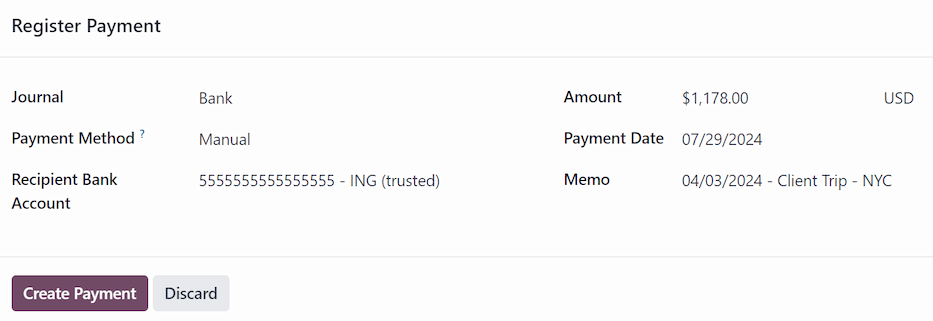
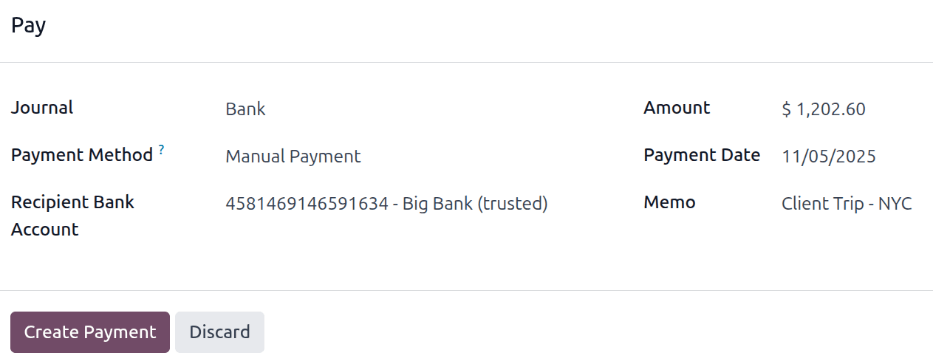
[IMP] Expenses: Updating reimburse employees
closes odoo/documentation#15231

X-original-commit: dc9634b927a35ee2c514c9f9818522ea1667fb2b

diff --git a/content/applications/finance/expenses/reimburse.rst b/content/applications/finance/expenses/reimburse.rst
@@ -3,27 +3,66 @@ Reimburse employees
 ===================
 
 After an expense report is :doc:`posted to an accounting journal <../expenses/post_expenses>`, the
-next step is to reimburse the employee. Just like approving and posting expenses, employees can be
-reimbursed in two ways: with cash, check, or direct deposit (:ref:`individually
-<expenses/reimburse-single>` or :ref:`in bulk <expenses/reimburse-bulk>`), or :ref:`reimbursed in a
-payslip <expenses/reimburse-payslip>`.
+next step is to reimburse the employee. Employees can be reimbursed via cash, check, or direct
+deposit in three ways:
 
-Settings
-========
+- :ref:`Individually <expenses/reimburse-single>`: Each individual expense report is reimbursed
+  separately.
+- :ref:`In bulk <expenses/reimburse-bulk>`: Multiple expense reports are reimbursed in a single
+  payment.
+- :ref:`In the employee's payslip <expenses/reimburse-payslip>`: Expense reports are reimbursed
+  directly in the employee's payslip.
 
-Reimbursements can be paid via paycheck, check, cash, or bank transfer. To set up payment options,
-first configure the various settings by navigating to :menuselection:`Expenses app -->
-Configuration --> Settings`.
+.. _expenses/reimburse-settings:
+
+Reimbursement settings
+======================
+
+Reimbursements can be paid via a paycheck, check, cash, or bank transfer (usually referred to as
+direct deposit). To set up payment options, first configure the various settings by navigating to
+:menuselection:`Expenses app --> Configuration --> Settings`.
 
 To reimburse employees for expenses :ref:`in their paychecks <expenses/reimburse-payslip>`, tick the
 checkbox beside the :guilabel:`Reimburse in Payslip` option in the :guilabel:`Expenses` section.
 
 Next, set how payments are made in the :guilabel:`Accounting` section. Click the drop-down menu
-under :guilabel:`Payment Methods`, and select the desired payment option. Default options include
-paying by :guilabel:`Manual (Cash)`, :guilabel:`Checks (Bank)`, :guilabel:`NACHA (Bank)`, and
-others. Leaving this field blank allows for **all** available payment options to be used.
+under :guilabel:`Payment Methods`, and select the desired payment option. The default options
+include paying by :guilabel:`Manual Payment (Cash)`, :guilabel:`Manual Payment (Bank)`,
+:guilabel:`Batch Deposit (Bank)`, and :guilabel:`Checks (Bank)`.
+
+Leaving this field blank allows for **all** available payment options to be used.
 
 When all desired configurations are complete, click :guilabel:`Save` to activate the settings.
+
+.. _expenses/reimburse-payslip:
+
+Reimburse in payslips
+=====================
+
+If the  *Reimburse in Payslip* option is activated on the :ref:`settings
+<expenses/reimburse-settings>` page, payments can be added to the employee's next payslip, instead
+of issuing separate payments.
+
+.. important::
+   Reimbursing expenses on payslips can **only** be done individually for an *approved* expense
+   report. Once an expense report has a status of *Posted*, the option to reimburse in the following
+   payslip **is not available**.
+
+Navigate to :menuselection:`Expenses app --> Expense Reports`, and click on the individual expense
+report to reimburse on the following paycheck. Click the :guilabel:`Report in Next Payslip` button,
+and the expenses are added to the next payslip issued for that employee.
+
+.. image:: reimburse/pay-via-payslip.png
+   :alt: The Report in Next Payslip button, visible with an expense report status of Approved.
+
+Once the expense report is added to the following payslip, a message is logged in the chatter
+stating `Expense report (expense report name) will be added to the next payslip.` The status for the
+expense report remains :guilabel:`Approved`. The status only changes to :guilabel:`Posted` (and then
+:guilabel:`Done`), when the related payslip is processed.
+
+.. seealso::
+   Refer to the :doc:`Payslips <../../hr/payroll/payslips>` documentation for more information about
+   processing paychecks.
 
 .. _expenses/reimburse-single:
 
@@ -35,36 +74,35 @@ Expense Reports`. All expense reports are presented in a default list view. Clic
 report being reimbursed to view the report details.
 
 .. important::
-   **Only** expense reports with a status of :guilabel:`Posted` can be reimbursed.
+   **Only** expense reports with a status of :guilabel:`Posted` can be reimbursed directly to the
+   employee (not :ref:`via a payslip <expenses/reimburse-payslip>`).
 
-Click the :guilabel:`Register Payment` button in the top-left corner of the expense report, and a
-:guilabel:`Register Payment` pop-up window appears. Enter the following information in the pop-up
-window:
+Click the :guilabel:`Pay` button in the top-left corner of the expense report, and a :guilabel:`Pay`
+pop-up window loads. Enter the following information in the pop-up window:
 
-- :guilabel:`Journal`: Select the accounting journal to post the payment to using the drop-down
-  menu. The default options are :guilabel:`Bank` or :guilabel:`Cash`.
+- :guilabel:`Journal`: Select the accounting journal to post the payment using the drop-down menu.
+  The default options are :guilabel:`Bank` or :guilabel:`Cash`.
 - :guilabel:`Payment Method`: Select how the payment is made using the drop-down menu. If
   :guilabel:`Cash` is selected for the :guilabel:`Journal`, the only option available is
-  :guilabel:`Manual`. If :guilabel:`Bank` is selected for the :guilabel:`Journal`, the default
-  options are :guilabel:`Manual` or :guilabel:`Checks`.
-- :guilabel:`Recipient Bank Account`: Select the employee's bank account the payment is being sent
-  to. If the employee has a bank account on file in the :ref:`Private Information tab
-  <employees/private-info>` of their employee form in the **Employees** app, that bank account
-  populates this field, by default.
-- :guilabel:`Amount`: The total amount being reimbursed populates this field, by default. The
-  currency, located to the right of the field, can be modified using the drop-down menu.
-- :guilabel:`Payment Date`: Enter the date the payments are issued in this field. The current date
+  :guilabel:`Manual Payment`. If :guilabel:`Bank` is selected for the :guilabel:`Journal`, the
+  default options are :guilabel:`Manual Payment` or :guilabel:`Checks`.
+- :guilabel:`Recipient Bank Account`: This field only appears if the :guilabel:`Journal` is set to
+  :guilabel:`Bank`. The employee's :ref:`bank account <employees/private-info>` populates this
+  field, by default. If the employee has more than one trusted bank account on their employee
+  profile, use the drop-down menu to select the desired bank account.
+- :guilabel:`Amount`: The total amount being reimbursed populates this field, by default.
+- :guilabel:`Payment Date`: Enter the date the payment is issued in this field. The current date
   populates this field, by default.
 - :guilabel:`Memo`: The text entered in the :doc:`Expense Report Summary
   <../expenses/expense_reports>` field of the expense report populates this field, by default.
 
 .. image:: reimburse/payment.png
-   :align: center
    :alt: The Register Payment pop-up window filled out for an individual expense report
          reimbursement.
 
 When the fields of the pop-up window are completed, click the :guilabel:`Create Payment` button to
-register the payment, and reimburse the employee.
+register the payment, and reimburse the employee. A green :guilabel:`In Payment` banner now appears
+on the expense report.
 
 .. _expenses/reimburse-bulk:
 
@@ -72,69 +110,37 @@ Reimburse in bulk
 =================
 
 To reimburse multiple expense reports at once, navigate to :menuselection:`Expenses app --> Expense
-Reports` to view all expense reports in a list view. Next, adjust the :guilabel:`STATUS` filters on
-the left side to only present expense reports with a status of :guilabel:`Posted`.
+Reports` to view all expense reports in a list view. Next, select the expense reports to be
+reimbursed.
+
+.. important::
+   **Only** expense reports with a status of :guilabel:`Posted` can be reimbursed directly to the
+   employee (not :ref:`via a payslip <expenses/reimburse-payslip>`).
 
 .. tip::
-   Adjusting the :guilabel:`STATUS` filters to only show :guilabel:`Posted` expense reports is not
-   necessary, but removes the step of selecting each individual report in the list.
+   Adjust the :guilabel:`STATUS` filter on the left side to only show :guilabel:`Posted` expense
+   reports. This displays **only** expense reports that are able to be reimbursed.
 
-Tick the checkbox next to the :guilabel:`Employee` column title to select all the reports in the
-list. Once ticked, the number of selected expense reports appears at the top of the page
-(:guilabel:`(#) Selected`). Additionally, a :guilabel:`Register Payment` button also appears in the
-upper-left corner.
+Tick the checkbox next to the expense reports being reimbursed, then click the :guilabel:`Pay`
+button, and a :guilabel:`Pay` pop-up window loads. Enter the following information in the pop-up
+window:
 
-.. image:: reimburse/multiple-reports.png
-   :align: center
-   :alt: Expense reports filtered by the status Posted, making the Register Payment button visible.
-
-Click the :guilabel:`Register Payment` button, and a :guilabel:`Register Payment` pop-up window
-appears. Enter the following information in the pop-up window:
-
-- :guilabel:`Journal`: Select the accounting journal the payment should be posted to, using the
-  drop-down menu. The default options are :guilabel:`Bank` or :guilabel:`Cash`.
+- :guilabel:`Journal`: Select the accounting journal to post the payment using the drop-down menu.
+  The default options are :guilabel:`Bank` or :guilabel:`Cash`.
 - :guilabel:`Payment Method`: Select how the payment is made using the drop-down menu. If
   :guilabel:`Cash` is selected for the :guilabel:`Journal`, the only option available is
-  :guilabel:`Manual`. If :guilabel:`Bank` is selected for the :guilabel:`Journal`, the default
-  options are :guilabel:`Manual` or :guilabel:`Checks`.
+  :guilabel:`Manual Payment`. If :guilabel:`Bank` is selected for the :guilabel:`Journal`, the
+  default options are :guilabel:`Manual Payment` or :guilabel:`Checks`.
 - :guilabel:`Group Payments`: When multiple expense reports are selected for the same employee, this
-  option appears. Tick the checkbox to have only one payment made, rather than issuing multiple
-  payments to the same employee.
+  option appears. Tick the checkbox to have only one payment made per employee, rather than issuing
+  multiple payments to the same employee.
+- :guilabel:`Amount`: The total amount being reimbursed for all the expense reports populates this
+  field, by default.
 - :guilabel:`Payment Date`: Enter the date the payments are issued. The current date populates this
   field, by default.
 
-.. image:: reimburse/register.png
-   :align: center
-   :alt: The Register Payment pop-up window filled out.
+When the fields on the :guilabel:`Pay` pop-up window are completed, click the :guilabel:`Create
+Payments` button to register the payments, and reimburse the employees.
 
-When the fields on the pop-up window are completed, click the :guilabel:`Create Payments` button to
-register the payments, and reimburse the employees.
-
-.. _expenses/reimburse-payslip:
-
-Report in next payslip
-======================
-
-If the  *Reimburse in Payslip* option is activated on the *Settings* page, payments can be added to
-their next payslip, instead of issued manually.
-
-.. important::
-   Reimbursing expenses on payslips can **only** be done individually, on an expense report with a
-   status of *Approved*. Once an expense report has a status of *Posted*, the option to reimburse in
-   the following payslip does **not** appear.
-
-Navigate to :menuselection:`Expenses app --> Expense Reports`, and click on the individual expense
-report being reimbursed on the following paycheck. Click the :guilabel:`Report in Next Payslip`
-smart button, and the expenses are added to the next payslip issued for that employee. Additionally,
-a message is logged in the chatter stating the expense is added to the following payslip.
-
-.. image:: reimburse/pay-via-payslip.png
-   :align: center
-   :alt: The Report in Next Payslip button, visible with an expense report status of Approved.
-
-The status for the expense report remains :guilabel:`Approved`. The status only changes to
-:guilabel:`Posted` (and then :guilabel:`Done`), when the paycheck is processed.
-
-.. seealso::
-   Refer to the :doc:`Payslips <../../hr/payroll/payslips>` documentation for more information about
-   processing paychecks.
+.. image:: reimburse/repay-multiple.png
+   :alt: The pay pop-up window filled out for multiple reimbursements via checks.
